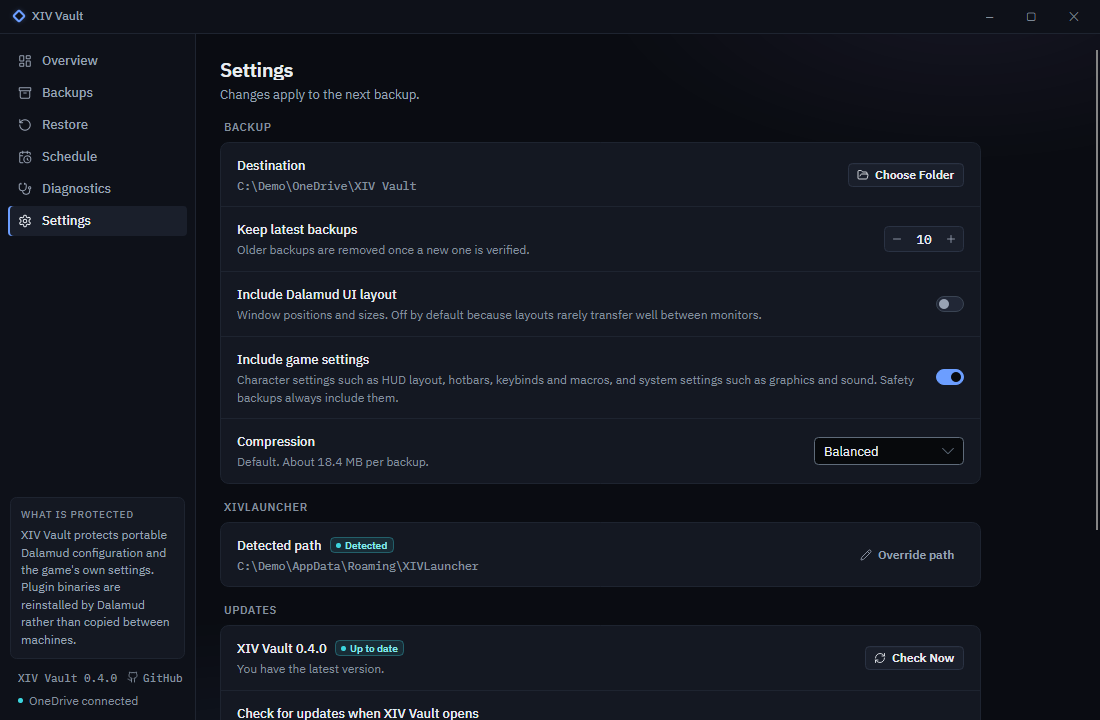
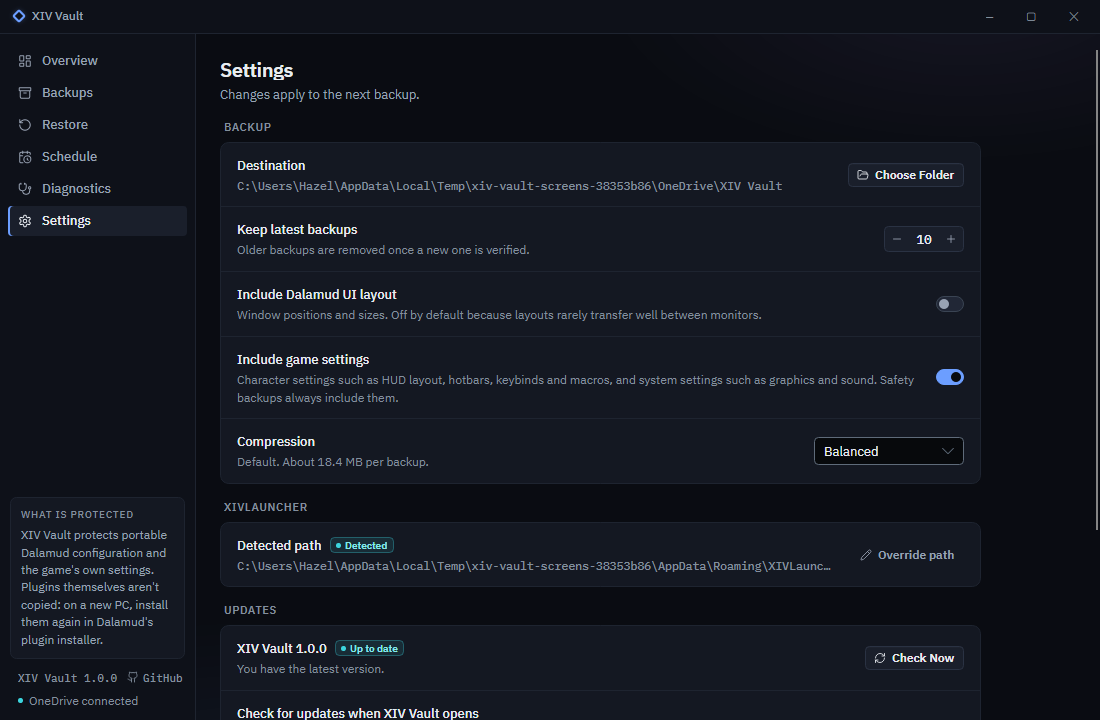
fix: stop claiming Dalamud reinstalls plugins on a new PC
Dalamud installs a plugin only from its plugin installer, so a restore on a
clean PC brings back settings but no plugins. The README, website, guide,
troubleshooting page and the app's sidebar now say to install them again
from /xlplugins. Screenshots and the demo are re-rendered for the sidebar.

Changed region(s): [[0.2473, 0.7639, 0.7418, 0.7944], [0.0, 0.7944, 0.1545, 0.9472], [0.2473, 0.2444, 0.7109, 0.275]]

diff --git a/site/index.html b/site/index.html
@@ -127,7 +127,7 @@
                 <tr class="out">
                   <th scope="row">installedPlugins\</th>
                   <td class="state out"><span class="mark"><svg class="icon" viewBox="0 0 24 24" aria-hidden="true"><path d="M5 12h14"/></svg>Never</span></td>
-                  <td class="what">The plugins themselves. Dalamud downloads them again, and they find their settings waiting.</td>
+                  <td class="what">The plugins themselves. Install them again from <code>/xlplugins</code>, and they find their settings waiting.</td>
                 </tr>
                 <tr class="out">
                   <th scope="row">runtime\, addon\, logs</th>
@@ -203,7 +203,8 @@
             <li><strong>Make your backups reachable:</strong> sign in to OneDrive or Dropbox, or plug in the drive. Backups that stay in the cloud are listed without being downloaded.</li>
             <li><strong>Install XIV Vault</strong> and open <span class="ui">Restore</span>. Backups in <code>OneDrive\XIV Vault</code> are found on their own.</li>
             <li><strong>Review and restore.</strong> Leave out a plugin or the system settings if they shouldn't come back, then choose <span class="ui">Restore Configuration</span>.</li>
-            <li><strong>Open XIVLauncher.</strong> Dalamud downloads your plugins again and they pick up their settings. The game finds your HUD, hotbars and macros when you log in.</li>
+            <li><strong>Open XIVLauncher and log in.</strong> The game finds your HUD, hotbars and macros.</li>
+            <li><strong>Install your plugins again.</strong> Type <code>/xlplugins</code> in the chat to open Dalamud's plugin installer; Dalamud doesn't reinstall them on its own. Each plugin picks up its settings when it is installed.</li>
           </ol>
           <figure class="shot">
             <a href="assets/generated/restore-2-review.png"><img src="assets/generated/restore-2-review.png" width="1100" height="720" loading="lazy" decoding="async"

diff --git a/site/guide.html b/site/guide.html
@@ -167,7 +167,8 @@
             <li>Make your backups reachable: sign in to OneDrive or Dropbox, or plug in the drive.</li>
             <li>Install XIV Vault and open it. Backups in <code>OneDrive\XIV Vault</code> are found on their own; otherwise choose the folder in <span class="ui">Settings</span>, or a backup file in the restore wizard.</li>
             <li>Open <span class="ui">Restore</span>, choose the newest backup, review it, and restore.</li>
-            <li>Open XIVLauncher. Dalamud downloads your plugins again and they find their settings. The game finds your HUD, hotbars and macros when you log in, even if it has never started on this PC.</li>
+            <li>Open XIVLauncher and log in. The game finds your HUD, hotbars and macros, even if it has never started on this PC.</li>
+            <li>Install your plugins again: type <code>/xlplugins</code> in the chat to open Dalamud's plugin installer. Dalamud doesn't reinstall them on its own. Each plugin finds its settings when it is installed, and plugins from custom repositories appear because those repositories came back with Dalamud's settings.</li>
           </ol>
           <div class="note">
             <svg class="icon" viewBox="0 0 24 24" aria-hidden="true"><path d="M17.5 19H9a7 7 0 1 1 6.71-9h1.79a4.5 4.5 0 1 1 0 9Z"/></svg>

diff --git a/README.md b/README.md
@@ -37,7 +37,8 @@ All three are self-contained: no .NET install is needed. Check downloads against
 2. Make your backups available: sign in to OneDrive or Dropbox, or plug in the drive. Backups that stay in the cloud are fine: XIV Vault lists them without downloading them.
 3. Install XIV Vault with Setup and open it. If the backups are in `OneDrive\XIV Vault`, XIV Vault finds them on its own. Otherwise choose the folder in **Settings**, or pick a backup file in the restore wizard.
 4. Open **Restore**, choose the newest backup, review it, and let the safety checks run. XIVLauncher and FFXIV must be closed. A backup that is still in the cloud downloads first, and XIV Vault shows its size before it starts.
-5. Select **Restore Configuration**, then open XIVLauncher. Dalamud downloads your plugins again and they pick up their restored settings, and the game finds your HUD layout, hotbars and macros when you log in. The game doesn't need to have started on the new PC first.
+5. Select **Restore Configuration**, then open XIVLauncher and log in. The game finds your HUD layout, hotbars and macros; it doesn't need to have started on the new PC first.
+6. Install your plugins again: type `/xlplugins` in the game's chat to open Dalamud's plugin installer. Dalamud doesn't reinstall them on its own. Each plugin picks up its restored settings when it is installed, and plugins from custom repositories appear because those repositories are part of the restored Dalamud settings.
 
 System settings hold the resolution and monitor. If the new PC has a different screen, leave **System settings** out in the review and set graphics again in the game.
 
@@ -118,7 +119,7 @@ The files are copied byte for byte; XIV Vault never looks inside them. Each char
 
 ## What is not backed up
 
-- **Plugin binaries** (`installedPlugins\`). XIV Vault does not copy or install plugins. Dalamud downloads them again on the new PC.
+- **Plugin binaries** (`installedPlugins\`). XIV Vault does not copy or install plugins, and Dalamud doesn't reinstall them on its own. On a new PC, install them again from `/xlplugins`.
 - Dalamud's runtime and hooks (`runtime\`, `addon\`), logs, caches and anything downloaded.
 - XIVLauncher's own settings and the game install.
 - From the game's settings folder: chat logs, screenshots, `cfgcopy`, `*.old` copies and `FFXIV_BOOT.cfg`.
@@ -147,7 +148,7 @@ From 1.0 on:
 ## Limitations
 
 - Windows only.
-- Plugins are reinstalled by Dalamud on the new PC; XIV Vault restores their settings, not the plugins.
+- XIV Vault restores plugin settings, not plugins. On a new PC, install the plugins again from Dalamud's plugin installer (`/xlplugins`).
 - Some plugins keep data outside `pluginConfigs\`; that data is not included.
 - Restoring replaces settings for the plugins in the backup. Plugins configured after the backup return to their earlier settings; the restore review lists them, and the safety backup keeps today's values.
 - A new release's Setup may get a SmartScreen warning until it has been downloaded enough to build a reputation.

diff --git a/docs/troubleshooting.md b/docs/troubleshooting.md
@@ -54,7 +54,7 @@ Every file the restore had changed was put back, so your configuration is as it 
 
 ## Plugins are missing after a restore
 
-XIV Vault restores plugin settings, not plugins. Open XIVLauncher and start the game: Dalamud downloads your installed plugins again, and they pick up their restored settings. Plugins from custom repositories need those repositories, which are part of the restored Dalamud settings.
+XIV Vault restores plugin settings, not plugins, and Dalamud doesn't reinstall them on its own. Start the game, type `/xlplugins` in the chat to open Dalamud's plugin installer, and install them again: each one picks up its restored settings. Plugins from custom repositories appear once those repositories are back, and they are part of the restored Dalamud settings.
 
 ## Updates
 

diff --git a/CHANGELOG.md b/CHANGELOG.md
@@ -4,6 +4,10 @@ All notable changes to XIV Vault are recorded here. The format follows [Keep a C
 
 ## [Unreleased]
 
+### Fixed
+
+- The sidebar said Dalamud reinstalls plugins on a new PC. It doesn't: install them again from Dalamud's plugin installer (`/xlplugins`), and each one picks up its restored settings.
+
 ## [1.0.0] - 2026-10-11
 
 XIV Vault 1.0 is safe to trust and stable to build on: every backup any version made restores in every later version, and the command line keeps its commands, options, JSON fields and exit codes through 1.x ([docs/cli.md](docs/cli.md)).
